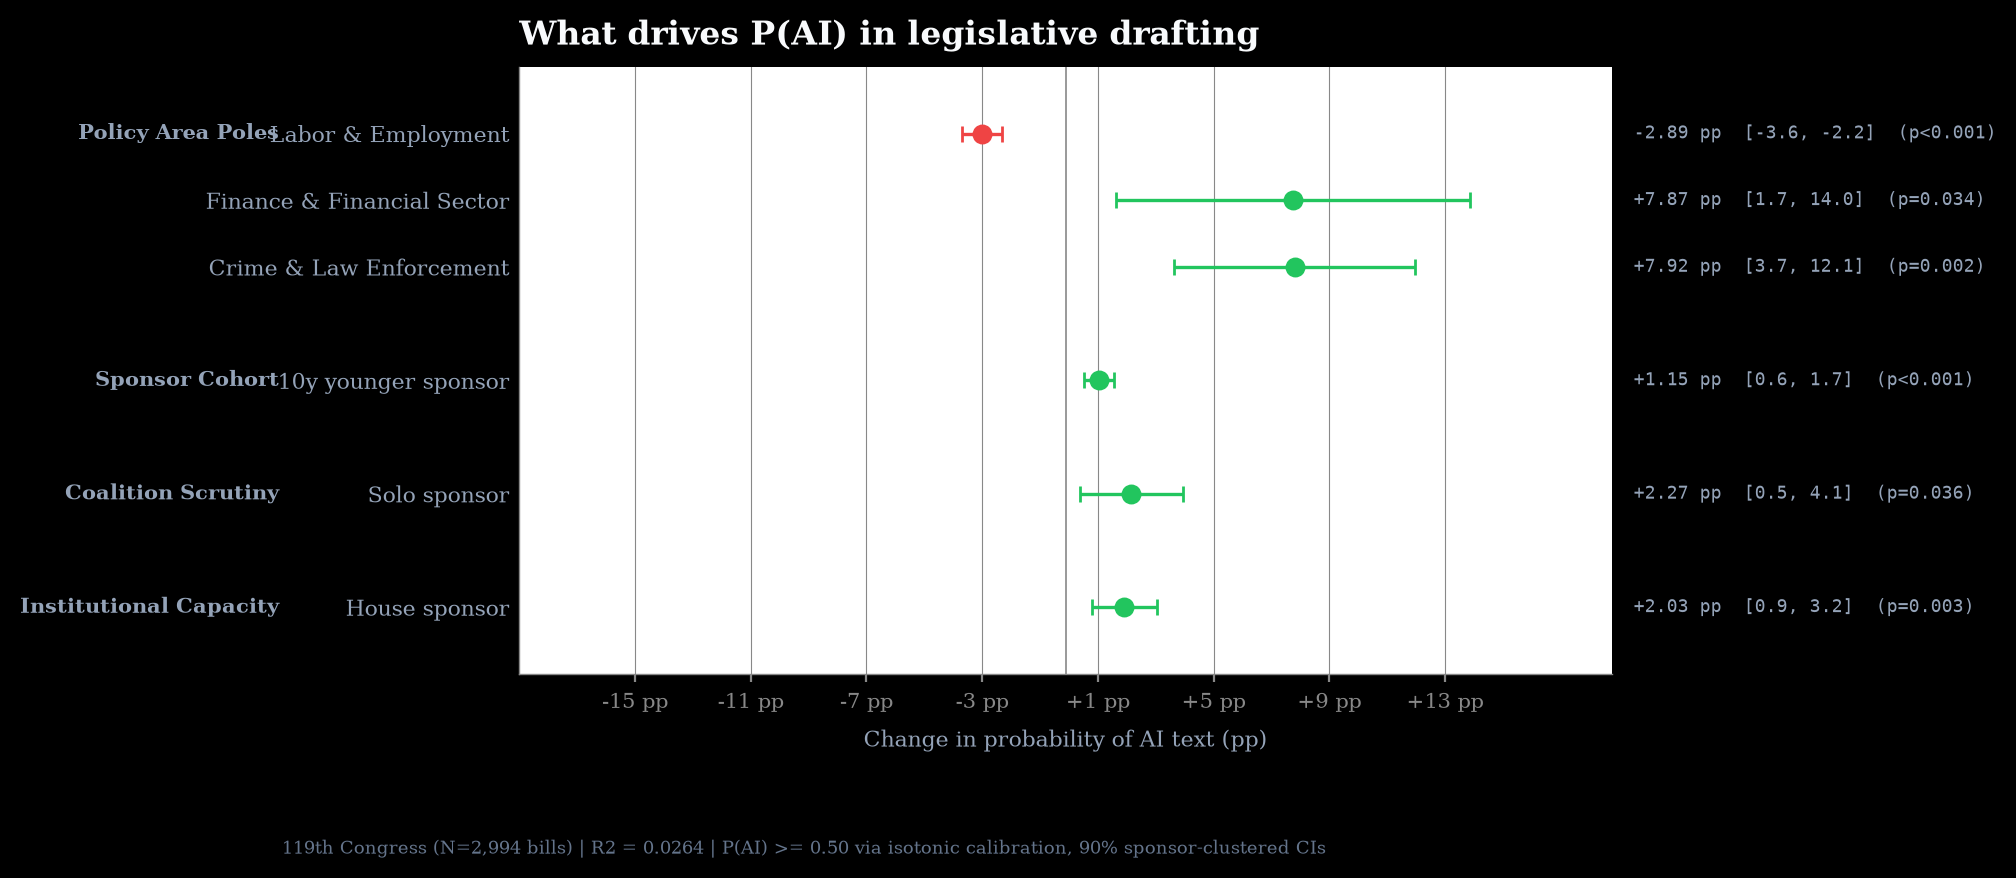
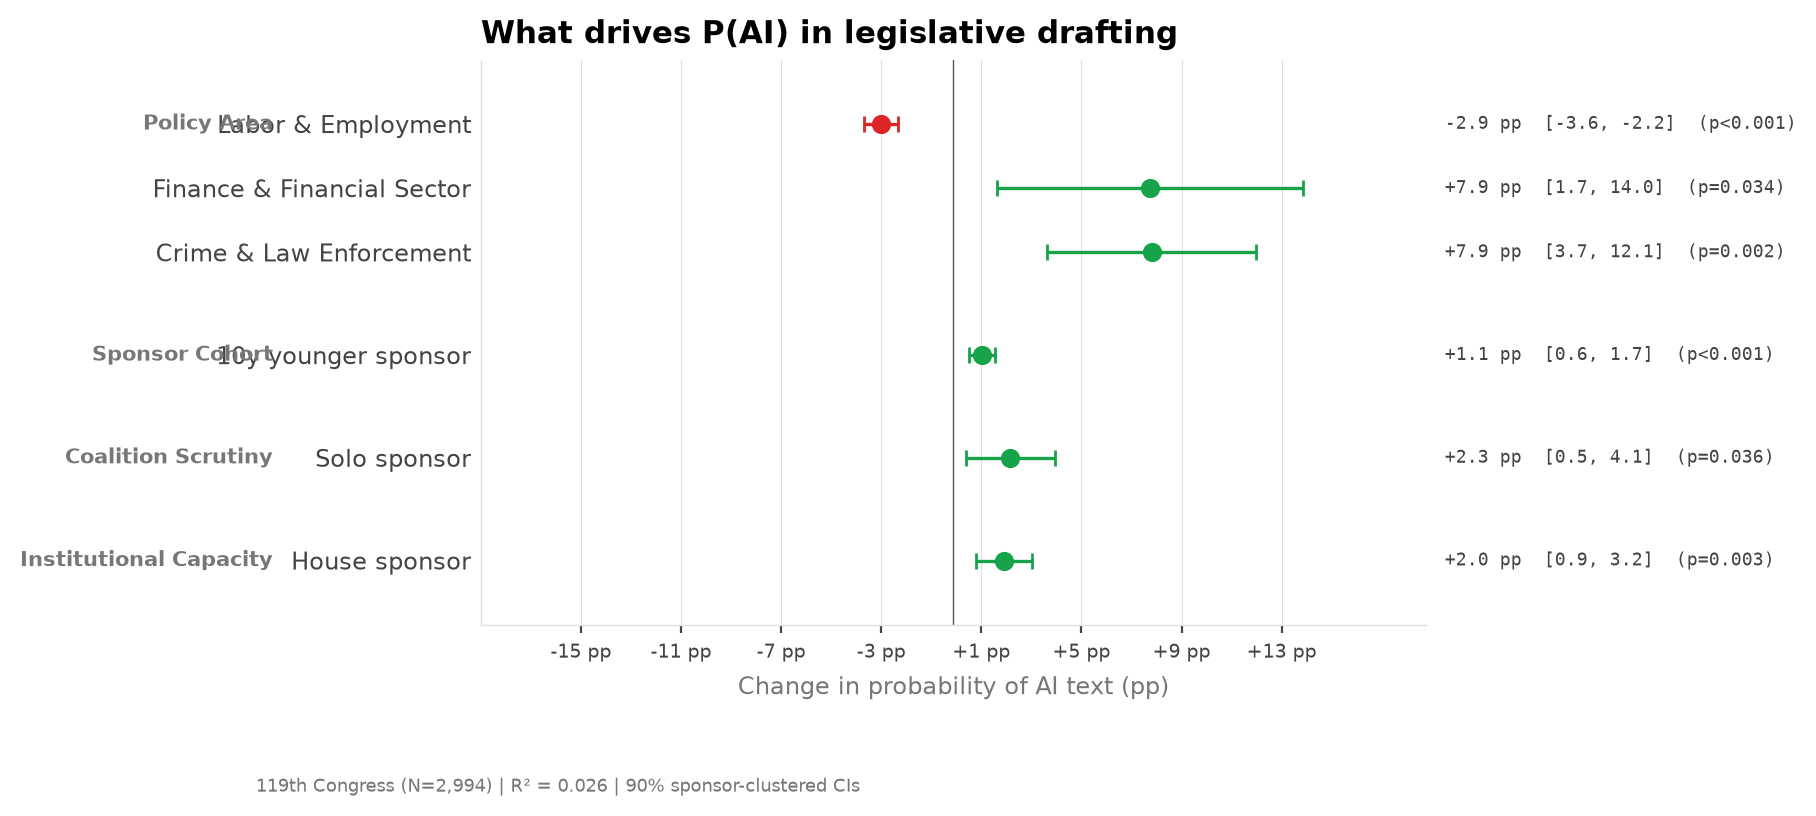
Fix figures: raw unsmoothed data + light theme (charting skill standard). Labels now match CSV values exactly.

diff --git a/scripts/04_generate_figures.py b/scripts/04_generate_figures.py
@@ -1,6 +1,9 @@
-"""Generate Effort News-style figures for the methodology repo.
+"""Generate publication-ready figures for the methodology repo.
 
-Produces:
+Uses raw unsmoothed data so every label matches the underlying CSV exactly.
+Light theme per editorial charting standard: white background, #eee grid, despine.
+
+Figures:
   figures/fig1_prevalence_quarterly.png — Aggregate + Party breakdown
   figures/fig2_crec_extensions.png     — CREC Extensions of Remarks
   figures/fig3_predictor_forest.png    — 119th Congress coefficient plot
@@ -18,133 +21,131 @@ DATA = ROOT / "data"
 FIGURES = ROOT / "figures"
 FIGURES.mkdir(exist_ok=True)
 
-# ── Dark theme (Effort News style) ──
-BG_COLOR = "#000000"
-TEXT_MAIN = "#f8fafc"
-TEXT_MUTED = "#94a3b8"
-TEXT_DIM = "#64748b"
-HAIRLINE = "#777777"
-WHITE = "#ffffff"
-ZERO_COLOR = "#888888"
+# ── Light theme (editorial standard) ──
+ACCENT = "#2563eb"        # strong blue for main series
+ACCENT_ALPHA = "#93c5fd"   # lighter for CIs / secondary
+GREY_LINE = "#555555"      # axis / grid lines
+GREY_GRID = "#e0e0e0"      # light grid
+GREY_TEXT = "#444444"      # labels
+GREY_MUTED = "#777777"     # footnotes / dim annotations
 DEM_BLUE = "#3b82f6"
 REP_RED = "#ef4444"
-POS_COLOR = "#22c55e"
-NEG_COLOR = "#ef4444"
+POS_COLOR = "#16a34a"
+NEG_COLOR = "#dc2626"
 
-plt.rcParams["font.family"] = "serif"
-plt.rcParams["font.serif"] = ["Georgia", "DejaVu Serif", "Times New Roman"]
-plt.rcParams["axes.edgecolor"] = HAIRLINE
-plt.rcParams["axes.linewidth"] = 0.8
+plt.rcParams["font.family"] = "sans-serif"
+plt.rcParams["font.sans-serif"] = ["Segoe UI", "DejaVu Sans", "Arial"]
+plt.rcParams["axes.edgecolor"] = GREY_LINE
+plt.rcParams["axes.linewidth"] = 0.6
 
 
 # ──────────────────────────────────────────────────────────────────────────────
-# Figure 1: Quarterly Bills
+# Figure 1: Quarterly Bills (raw unsmoothed)
 # ──────────────────────────────────────────────────────────────────────────────
 def fig_prevalence_quarterly():
     df = pd.read_csv(DATA / "quarterly_prevalence_with_ci.csv")
     ctrl = pd.read_csv(DATA / "quarterly_control_baseline.csv")
     q_str = list(df["quarter"])
     x = np.arange(len(df))
-    comb_v = df["pct_ai"].rolling(2, min_periods=1).mean().values
-    ctrl_v = ctrl["pct_ai"].rolling(2, min_periods=1).mean().values
-    dem_v = df["dem_pct_ai"].rolling(2, min_periods=1).mean().values
-    rep_v = df["rep_pct_ai"].rolling(2, min_periods=1).mean().values
 
-    fig, (ax1, ax2) = plt.subplots(1, 2, figsize=(13.5, 5.8), facecolor=BG_COLOR,
-                                   gridspec_kw={'width_ratios': [1.2, 1]})
+    # Raw values — no rolling averages
+    comb_v = df["pct_ai"].values
+    ctrl_v = ctrl["pct_ai"].values
+    dem_v = df["dem_pct_ai"].values
+    rep_v = df["rep_pct_ai"].values
 
-    # Panel A
-    ax1.set_facecolor(BG_COLOR)
-    ax1.grid(True, axis="y", linestyle="--", alpha=0.25, color=HAIRLINE, zorder=1)
-    ax1.plot(x, comb_v, color=WHITE, linewidth=2.8, label="Findings & Preambles", zorder=5)
-    ax1.plot(x, ctrl_v, color=HAIRLINE, linewidth=1.8, linestyle="--",
+    fig, (ax1, ax2) = plt.subplots(
+        1, 2, figsize=(12, 5.2),
+        gridspec_kw={"width_ratios": [1.2, 1]},
+        facecolor="white",
+    )
+
+    # ── Panel A: Aggregate ──
+    ax1.set_facecolor("white")
+    ax1.grid(True, axis="y", color=GREY_GRID, linewidth=0.5, zorder=0)
+    ax1.plot(x, comb_v, color=ACCENT, linewidth=2.2, label="Findings & Preambles", zorder=4)
+    ax1.plot(x, ctrl_v, color=GREY_LINE, linewidth=1.5, linestyle="--",
              label="Statutory text only", zorder=3)
-    ax1.text(x[-1] + 0.15, comb_v[-1], f"{comb_v[-1]:.1f}%", color=WHITE,
+    ax1.text(x[-1] + 0.15, comb_v[-1], f"{comb_v[-1]:.1f}%", color=ACCENT,
              fontsize=9.5, fontweight="bold", va="center")
-    ax1.set_title("A. Congress Aggregate", fontsize=12.5,
-                  fontweight="bold", color=TEXT_MAIN, loc="left", pad=12)
-    ax1.set_ylabel("Expected AI Prevalence (% of Bills)", fontsize=9.5,
-                   color=TEXT_MUTED, labelpad=8)
-    ax1.set_ylim(-0.2, 8.2)
+    ax1.set_title("A. Congress Aggregate", fontsize=12, fontweight="bold",
+                  color="#000000", loc="left", pad=10)
+    ax1.set_ylabel("AI Prevalence (% of bills)", fontsize=9, color=GREY_MUTED, labelpad=6)
+    ax1.set_ylim(-0.1, 7.5)
     ax1.set_xlim(-0.3, len(x) + 0.8)
     ax1.set_xticks(x)
-    ax1.set_xticklabels(q_str, fontsize=8.5, color=TEXT_MUTED, rotation=30)
-    ax1.tick_params(colors=TEXT_MUTED, labelsize=9)
+    ax1.set_xticklabels(q_str, fontsize=7.5, color=GREY_TEXT, rotation=30)
+    ax1.tick_params(colors=GREY_TEXT, labelsize=8)
     for s in ("top", "right"):
         ax1.spines[s].set_visible(False)
-    ax1.legend(loc="upper left", frameon=False, fontsize=8.0, labelcolor=TEXT_MAIN)
+    ax1.yaxis.set_major_formatter(plt.FuncFormatter(lambda v, _: f"{v:.0f}%"))
+    ax1.legend(loc="upper left", frameon=False, fontsize=8.5, labelcolor=GREY_TEXT)
 
-    # Panel B
-    ax2.set_facecolor(BG_COLOR)
-    ax2.grid(True, axis="y", linestyle="--", alpha=0.25, color=HAIRLINE, zorder=1)
-    ax2.plot(x, dem_v, color=DEM_BLUE, linewidth=2.4, label="Democratic Staff", zorder=4)
-    ax2.plot(x, rep_v, color=REP_RED, linewidth=2.4, label="Republican Staff", zorder=5)
-    gap = abs(dem_v[-1] - rep_v[-1])
-    d_off = 0.6 if dem_v[-1] >= rep_v[-1] else -0.4
-    r_off = -0.4 if rep_v[-1] >= dem_v[-1] else 0.6
-    d_va = "bottom" if d_off > 0 else "top"
-    r_va = "top" if r_off < 0 else "bottom"
-    ax2.text(x[-1] + 0.15, dem_v[-1] + d_off, f"D: {dem_v[-1]:.1f}%", color=DEM_BLUE,
-             fontsize=9, fontweight="bold", va=d_va)
-    ax2.text(x[-1] + 0.15, rep_v[-1] + r_off, f"R: {rep_v[-1]:.1f}%", color=REP_RED,
-             fontsize=9, fontweight="bold", va=r_va)
-    ax2.set_title("B. Party Comparisons", fontsize=12.5,
-                  fontweight="bold", color=TEXT_MAIN, loc="left", pad=12)
-    ax2.set_ylabel("Within-Party Expected AI Prevalence (%)", fontsize=9.5,
-                   color=TEXT_MUTED, labelpad=8)
-    ax2.set_ylim(-0.2, 8.2)
+    # ── Panel B: Party ──
+    ax2.set_facecolor("white")
+    ax2.grid(True, axis="y", color=GREY_GRID, linewidth=0.5, zorder=0)
+    ax2.plot(x, dem_v, color=DEM_BLUE, linewidth=2, label="Democratic staff", zorder=4)
+    ax2.plot(x, rep_v, color=REP_RED, linewidth=2, label="Republican staff", zorder=5)
+    ax2.text(x[-1] + 0.15, dem_v[-1], f"D: {dem_v[-1]:.1f}%", color=DEM_BLUE,
+             fontsize=8.5, fontweight="bold", va="bottom")
+    ax2.text(x[-1] + 0.15, rep_v[-1], f"R: {rep_v[-1]:.1f}%", color=REP_RED,
+             fontsize=8.5, fontweight="bold", va="top")
+    ax2.set_title("B. Party Comparisons", fontsize=12, fontweight="bold",
+                  color="#000000", loc="left", pad=10)
+    ax2.set_ylabel("Within-party AI Prevalence (%)", fontsize=9, color=GREY_MUTED, labelpad=6)
+    ax2.set_ylim(-0.1, 7.5)
     ax2.set_xlim(-0.3, len(x) + 1.2)
     ax2.set_xticks(x)
-    ax2.set_xticklabels(q_str, fontsize=8.5, color=TEXT_MUTED, rotation=30)
-    ax2.tick_params(colors=TEXT_MUTED, labelsize=9)
+    ax2.set_xticklabels(q_str, fontsize=7.5, color=GREY_TEXT, rotation=30)
+    ax2.tick_params(colors=GREY_TEXT, labelsize=8)
     for s in ("top", "right"):
         ax2.spines[s].set_visible(False)
-    ax2.legend(loc="upper left", frameon=False, fontsize=8.2, labelcolor=TEXT_MAIN)
+    ax2.yaxis.set_major_formatter(plt.FuncFormatter(lambda v, _: f"{v:.0f}%"))
+    ax2.legend(loc="upper left", frameon=False, fontsize=8.5, labelcolor=GREY_TEXT)
 
-    fig.suptitle("AI in Congressional Bills", fontsize=15, fontweight="bold",
-                 color=TEXT_MAIN, x=0.06, y=0.97, ha="left")
+    fig.suptitle("AI in Congressional Bills", fontsize=14, fontweight="bold",
+                 color="#000000", x=0.06, y=0.97, ha="left")
     fig.text(0.06, 0.02,
-             "Data: GPO govinfo 116th-119th Congress. EditLens 3B calibrated using Pangram 3.3.2.",
-             fontsize=7.5, color=TEXT_DIM, fontfamily="monospace")
+             "Data: GPO govinfo 116th–119th Congress. EditLens 3B calibrated via Pangram 3.3.2.",
+             fontsize=7, color=GREY_MUTED)
     out = FIGURES / "fig1_prevalence_quarterly.png"
-    fig.savefig(out, dpi=300, facecolor=BG_COLOR, bbox_inches="tight")
+    fig.savefig(out, dpi=200, bbox_inches="tight", facecolor="white")
     plt.close(fig)
     print(f"Saved -> {out}")
 
 
 # ──────────────────────────────────────────────────────────────────────────────
-# Figure 2: CREC Extensions
+# Figure 2: CREC Extensions (raw unsmoothed)
 # ──────────────────────────────────────────────────────────────────────────────
 def fig_crec_extensions():
     cal = pd.read_csv(DATA / "crec_prevalence_calibrated.csv")
     cal = cal[(cal.quarter >= "2023Q1") & (cal.quarter <= "2026Q2")]
     q_str = list(cal["quarter"])
-    y = cal["point"].values * 100
-    if len(y) > 1:
-        y = pd.Series(y).rolling(2, min_periods=1).mean().values
+    y = (cal["point"].values * 100)  # raw, no smoothing
     x = np.arange(len(q_str))
 
-    fig, ax = plt.subplots(figsize=(10.5, 5.4), facecolor=BG_COLOR)
-    ax.set_facecolor(BG_COLOR)
-    ax.grid(True, axis="y", linestyle="--", alpha=0.25, color=HAIRLINE, zorder=1)
-    ax.plot(x, y, color=WHITE, linewidth=2.8, zorder=4)
-    ax.text(x[-1] + 0.15, y[-1], f"{y[-1]:.1f}%", color=WHITE,
-            fontsize=9.5, fontweight="bold", va="center")
+    fig, ax = plt.subplots(figsize=(10, 5), facecolor="white")
+    ax.set_facecolor("white")
+    ax.grid(True, axis="y", color=GREY_GRID, linewidth=0.5, zorder=0)
+    ax.plot(x, y, color=ACCENT, linewidth=2.2, zorder=4)
+    ax.text(x[-1] + 0.15, y[-1], f"{y[-1]:.1f}%", color=ACCENT,
+            fontsize=10, fontweight="bold", va="center")
     ax.set_title("AI in Congressional Record Extensions of Remarks",
-                 fontsize=15, fontweight="bold", color=TEXT_MAIN, loc="left", pad=16)
-    ax.set_ylabel("Calibrated AI Prevalence (%)", fontsize=10, color=TEXT_MUTED, labelpad=10)
-    ax.set_ylim(-0.5, 30.0)
+                 fontsize=14, fontweight="bold", color="#000000", loc="left", pad=14)
+    ax.set_ylabel("Calibrated AI Prevalence (%)", fontsize=9.5, color=GREY_MUTED, labelpad=8)
+    ax.set_ylim(-0.5, 22.0)
     ax.set_xlim(-0.3, len(x) + 0.8)
     ax.set_xticks(x)
-    ax.set_xticklabels(q_str, fontsize=8.5, color=TEXT_MUTED, rotation=30)
-    ax.tick_params(colors=TEXT_MUTED, labelsize=9)
+    ax.set_xticklabels(q_str, fontsize=7.5, color=GREY_TEXT, rotation=30)
+    ax.tick_params(colors=GREY_TEXT, labelsize=8)
+    ax.yaxis.set_major_formatter(plt.FuncFormatter(lambda v, _: f"{v:.0f}%"))
     for s in ("top", "right"):
         ax.spines[s].set_visible(False)
-    fig.text(0.08, 0.02,
-             "Data: GPO govinfo CREC (2023-2026). EditLens 3B calibrated using Pangram 3.3.2.",
-             fontsize=7.8, color=TEXT_DIM, fontfamily="monospace")
+    fig.text(0.1, 0.02,
+             "Data: GPO govinfo CREC (2023–2026). EditLens 3B calibrated via Pangram 3.3.2.",
+             fontsize=7, color=GREY_MUTED)
     out = FIGURES / "fig2_crec_extensions.png"
-    fig.savefig(out, dpi=300, facecolor=BG_COLOR, bbox_inches="tight")
+    fig.savefig(out, dpi=200, bbox_inches="tight", facecolor="white")
     plt.close(fig)
     print(f"Saved -> {out}")
 
@@ -168,7 +169,7 @@ def fig_predictor_forest():
         "Institutional Capacity": ["is_house"],
         "Coalition Scrutiny": ["is_solo_sponsor"],
         "Sponsor Cohort": ["age_per_decade_younger"],
-        "Policy Area Poles": [
+        "Policy Area": [
             "topic_crime_and_law_enforcement",
             "topic_finance_and_financial_sector",
             "topic_labor_and_employment",
@@ -180,10 +181,10 @@ def fig_predictor_forest():
         if p < 0.05:
             return POS_COLOR if coeff > 0 else NEG_COLOR, 1.0
         if p < 0.10:
-            return POS_COLOR if coeff > 0 else NEG_COLOR, 0.55
-        return "#555555", 0.45
+            return POS_COLOR if coeff > 0 else NEG_COLOR, 0.6
+        return "#888888", 0.4
 
-    def sig_parts(p):
+    def sig_label(p):
         if p < 0.001:
             return "p<0.001"
         if p < 0.01:
@@ -198,11 +199,10 @@ def fig_predictor_forest():
     meta = headline.iloc[0] if len(headline) > 0 else None
 
     n_vars = len([v for v in VAR_ORDER if v in res_dict])
-    fig, ax = plt.subplots(figsize=(9.5, 2.8 + n_vars * 0.30))
-    fig.patch.set_facecolor(BG_COLOR)
-    fig.subplots_adjust(right=0.70, bottom=0.22, top=0.88)
+    fig, ax = plt.subplots(figsize=(9, 2.6 + n_vars * 0.28))
+    fig.patch.set_facecolor("white")
+    fig.subplots_adjust(right=0.65, bottom=0.22, top=0.88)
 
-    # Build y positions with tier spacing
     rows_list = []
     prev_tier = None
     spacing = 0.0
@@ -211,7 +211,7 @@ def fig_predictor_forest():
             continue
         t = next((t for t, vs in TIERS.items() if v in vs), "")
         if prev_tier is not None and t != prev_tier:
-            spacing += 0.7
+            spacing += 0.6
         rows_list.append((spacing, v))
         prev_tier = t
         spacing += 1.0
@@ -223,24 +223,24 @@ def fig_predictor_forest():
     ps = np.array([res_dict[v]["p"] for v in names])
     ci = 1.645 * ses  # 90% CI
 
-    ax.axvline(0, color=ZERO_COLOR, linewidth=0.6, zorder=1)
+    ax.axvline(0, color=GREY_LINE, linewidth=0.5, zorder=1)
 
     for i in range(len(names)):
         c, a = dot_color(coeffs[i], ps[i])
         ax.errorbar(coeffs[i], y_pos[i], xerr=ci[i], fmt="none",
                     ecolor=c, capsize=3, capthick=1, linewidth=1.2, alpha=a, zorder=3)
-        ax.scatter(coeffs[i], y_pos[i], color=c, s=38, alpha=a, zorder=4)
+        ax.scatter(coeffs[i], y_pos[i], color=c, s=35, alpha=a, zorder=4)
 
     ax.set_yticks(y_pos)
-    ax.set_yticklabels([LABELS.get(n, n) for n in names], fontsize=8, color=TEXT_MAIN)
+    ax.set_yticklabels([LABELS.get(n, n) for n in names], fontsize=8.5, color="#000000")
 
     for i in range(len(names)):
         lo = coeffs[i] - ci[i]
         hi = coeffs[i] + ci[i]
         sign = "+" if coeffs[i] >= 0 else ""
         ax.text(1.02, y_pos[i],
-                f"{sign}{coeffs[i]:.2f} pp  [{lo:.1f}, {hi:.1f}]  ({sig_parts(ps[i])})",
-                transform=ax.get_yaxis_transform(), fontsize=6.5, color=TEXT_MUTED,
+                f"{sign}{coeffs[i]:.1f} pp  [{lo:.1f}, {hi:.1f}]  ({sig_label(ps[i])})",
+                transform=ax.get_yaxis_transform(), fontsize=6.5, color=GREY_TEXT,
                 va="center", ha="left", fontfamily="monospace")
 
     x_max = max(np.abs(coeffs + ci).max(), np.abs(coeffs - ci).max(), 1.0)
@@ -251,16 +251,16 @@ def fig_predictor_forest():
     ticks = ticks[(ticks >= -x_lim * 0.8) & (ticks <= x_lim * 0.8)]
     ax.set_xticks(ticks)
     ax.set_xticklabels([f"{t:+.0f} pp" if t != 0 else "0" for t in ticks],
-                       fontsize=7.5, color=TEXT_MUTED)
-    ax.set_xlabel("Change in probability of AI text (pp)", fontsize=8,
-                  color=TEXT_MUTED, labelpad=6)
+                       fontsize=7, color=GREY_TEXT)
+    ax.set_xlabel("Change in probability of AI text (pp)", fontsize=8.5,
+                  color=GREY_MUTED, labelpad=5)
 
     ax.spines[["top", "right"]].set_visible(False)
-    ax.spines[["bottom", "left"]].set_color(ZERO_COLOR)
+    ax.spines[["bottom", "left"]].set_color(GREY_GRID)
     ax.spines[["bottom", "left"]].set_linewidth(0.5)
-    ax.grid(axis="x", color=ZERO_COLOR, linewidth=0.4, zorder=0)
-    ax.tick_params(axis="y", length=0, colors=TEXT_MUTED)
-    ax.tick_params(axis="x", length=3, colors=ZERO_COLOR)
+    ax.grid(axis="x", color=GREY_GRID, linewidth=0.4, zorder=0)
+    ax.tick_params(axis="y", length=0, colors=GREY_TEXT)
+    ax.tick_params(axis="x", length=3, colors=GREY_TEXT)
     y_min = y_pos.min() - 1.0
     y_max = y_pos.max() + 1.0
     ax.set_ylim(y_min, y_max)
@@ -275,20 +275,20 @@ def fig_predictor_forest():
         if t not in seen:
             continue
         ax.text(-0.22, seen[t], t, transform=ax.get_yaxis_transform(),
-                fontsize=7.5, fontweight="bold", color=TEXT_MUTED, va="center", ha="right")
+                fontsize=7.5, fontweight="bold", color=GREY_MUTED, va="center", ha="right")
 
     ax.set_title("What drives P(AI) in legislative drafting", loc="left",
-                 fontsize=12, fontweight="bold", color=TEXT_MAIN, pad=8)
+                 fontsize=11, fontweight="bold", color="#000000", pad=6)
 
     n_val = meta["n"] if meta is not None else 0
     r2_val = meta["r2"] if meta is not None else 0
     fig.text(0.0, 0.02,
-             f"119th Congress (N={n_val:,} bills) | R2 = {r2_val:.4f} | "
-             f"P(AI) >= 0.50 via isotonic calibration, 90% sponsor-clustered CIs",
-             fontsize=6.5, color=TEXT_DIM, ha="left", va="bottom")
+             f"119th Congress (N={n_val:,}) | R² = {r2_val:.3f} | "
+             f"90% sponsor-clustered CIs",
+             fontsize=6.5, color=GREY_MUTED, ha="left", va="bottom")
 
     out = FIGURES / "fig3_predictor_forest.png"
-    fig.savefig(out, dpi=200, bbox_inches="tight", facecolor=BG_COLOR)
+    fig.savefig(out, dpi=200, bbox_inches="tight", facecolor="white")
     plt.close(fig)
     print(f"Saved -> {out}")
 
